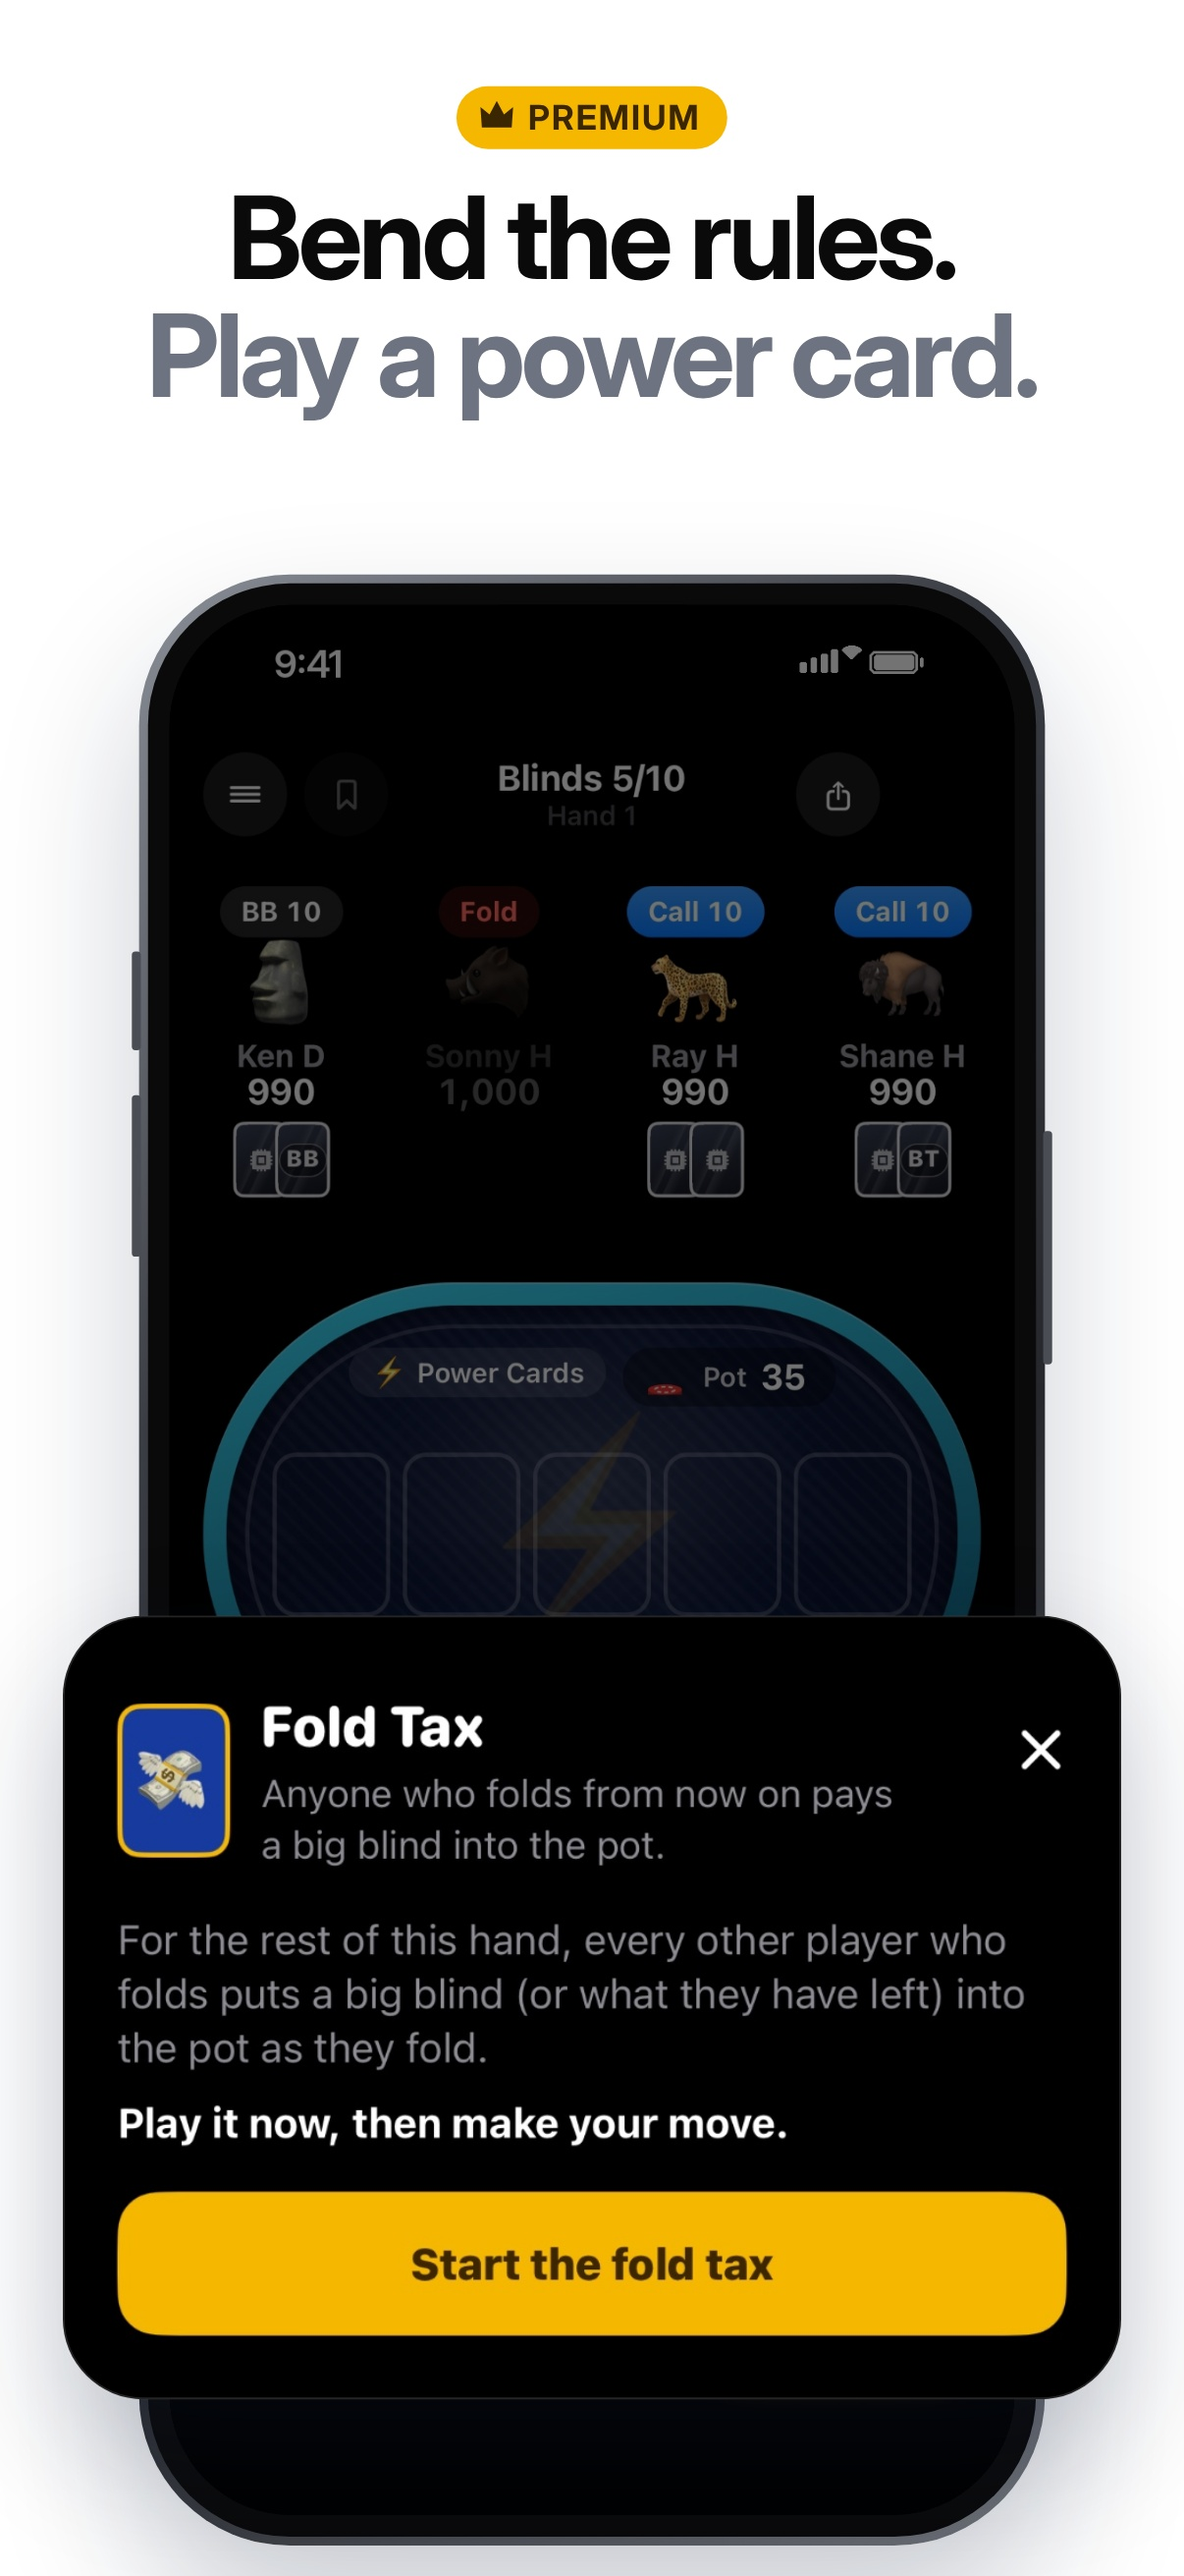
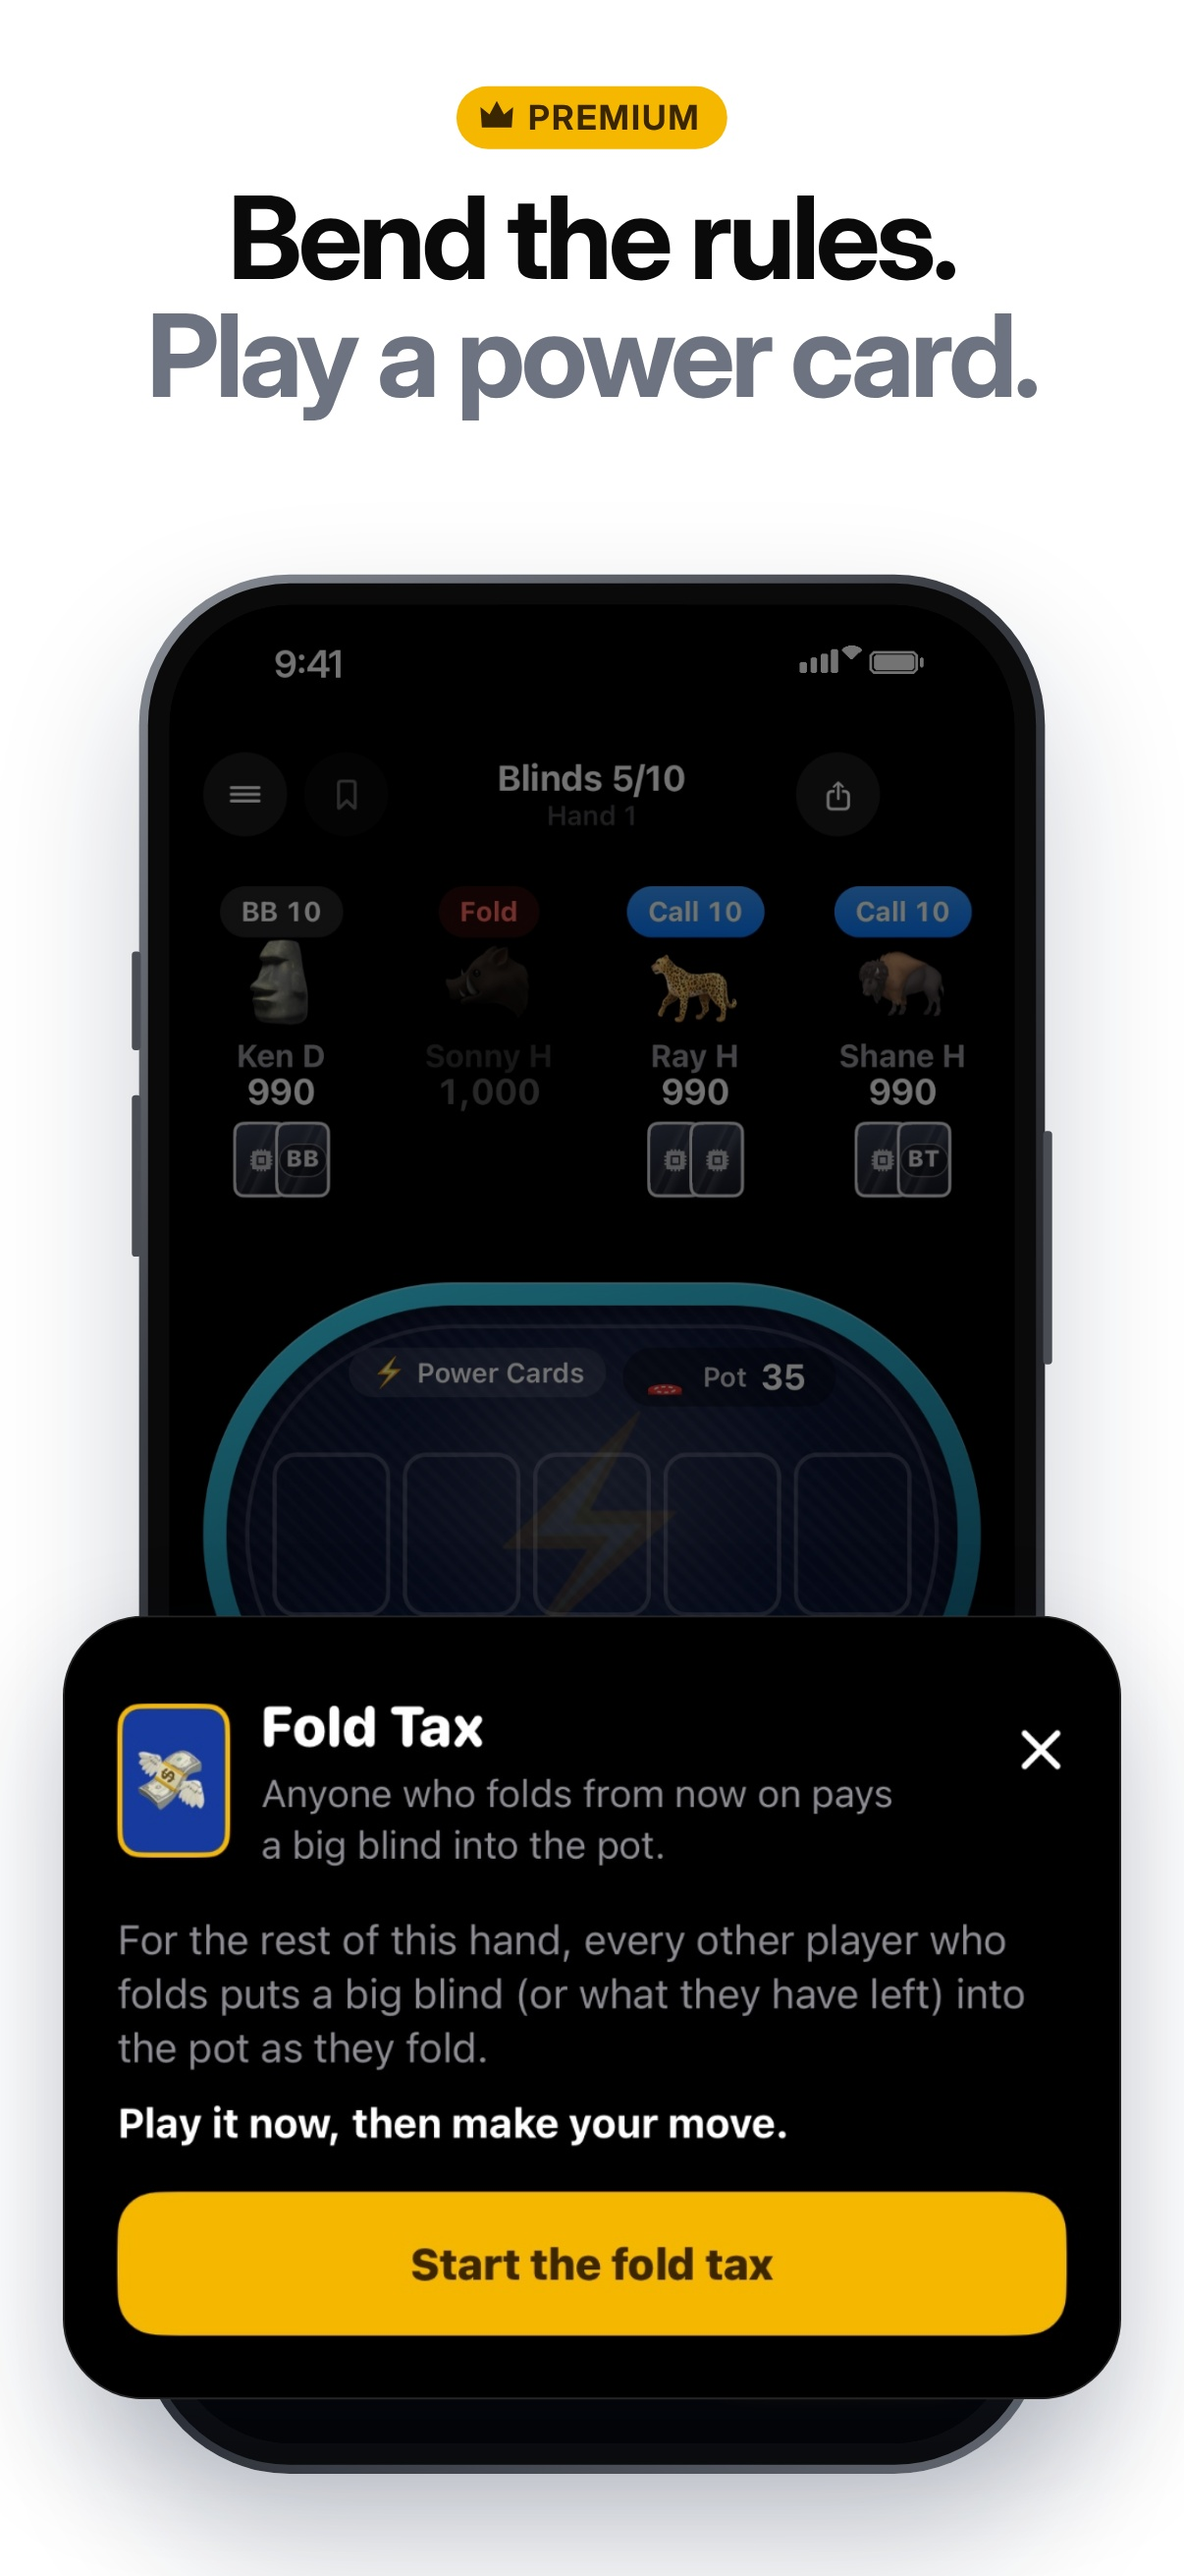
App Store screenshots: the phone's screen is an iPhone's shape
The mockup's screen was 942 x 2128, taller than an iPhone's 402 x 874, so
every screenshot ran out before the bottom and left a black bar under the cards
and chip box. The phone keeps its width and is now 2116 tall, so the screen is
942 x 2048, the shape of the shots, which fill it to the bottom edge.

Claude-Session: https://claude.ai/code/session_01JcRw4DA2eAJEZcdSqAcKC1

Changed region(s): [[0.1227, 0.9268, 0.8897, 0.9886]]

diff --git a/store/scripts/slides.html b/store/scripts/slides.html
@@ -7,11 +7,12 @@ body.light{--bg:#ffffff;--ink:#0a0a0a;--mute:#6e7381;--shadow:rgba(20,30,60,.22)
 body.light .glow{display:none}
 h1{position:absolute;left:90px;right:90px;text-align:center;font-weight:700;letter-spacing:-0.035em;line-height:1.02;font-size:128px}
 h1 span{color:var(--mute)}
-.phone{position:absolute;width:1010px;height:2196px;border-radius:168px;padding:22px;
+/* The screen (the phone less 34px a side) is exactly an iPhone screenshot's shape, 402 x 874, so a shot fills it to the bottom edge. */
+.phone{position:absolute;width:1010px;height:2116px;border-radius:168px;padding:22px;
  background:linear-gradient(135deg,#8b8f97,#3a3d44 30%,#25272c 60%,#6d7178);box-shadow:0 80px 160px var(--shadow)}
 .phone:before{content:'';position:absolute;inset:10px;border-radius:158px;background:#0a0a0b}
 .screen{position:absolute;inset:34px;border-radius:136px;overflow:hidden;background:#000}
-.screen img{width:100%;display:block}
+.screen img{width:100%;height:100%;object-fit:cover;object-position:top;display:block}
 .island{position:absolute;top:34px;left:50%;transform:translateX(-50%);width:290px;height:86px;border-radius:43px;background:#000;z-index:2}
 .dim:after{content:'';position:absolute;inset:0;background:rgba(0,0,0,.55)}
 .btn{position:absolute;width:10px;border-radius:4px;background:#4a4d54}
